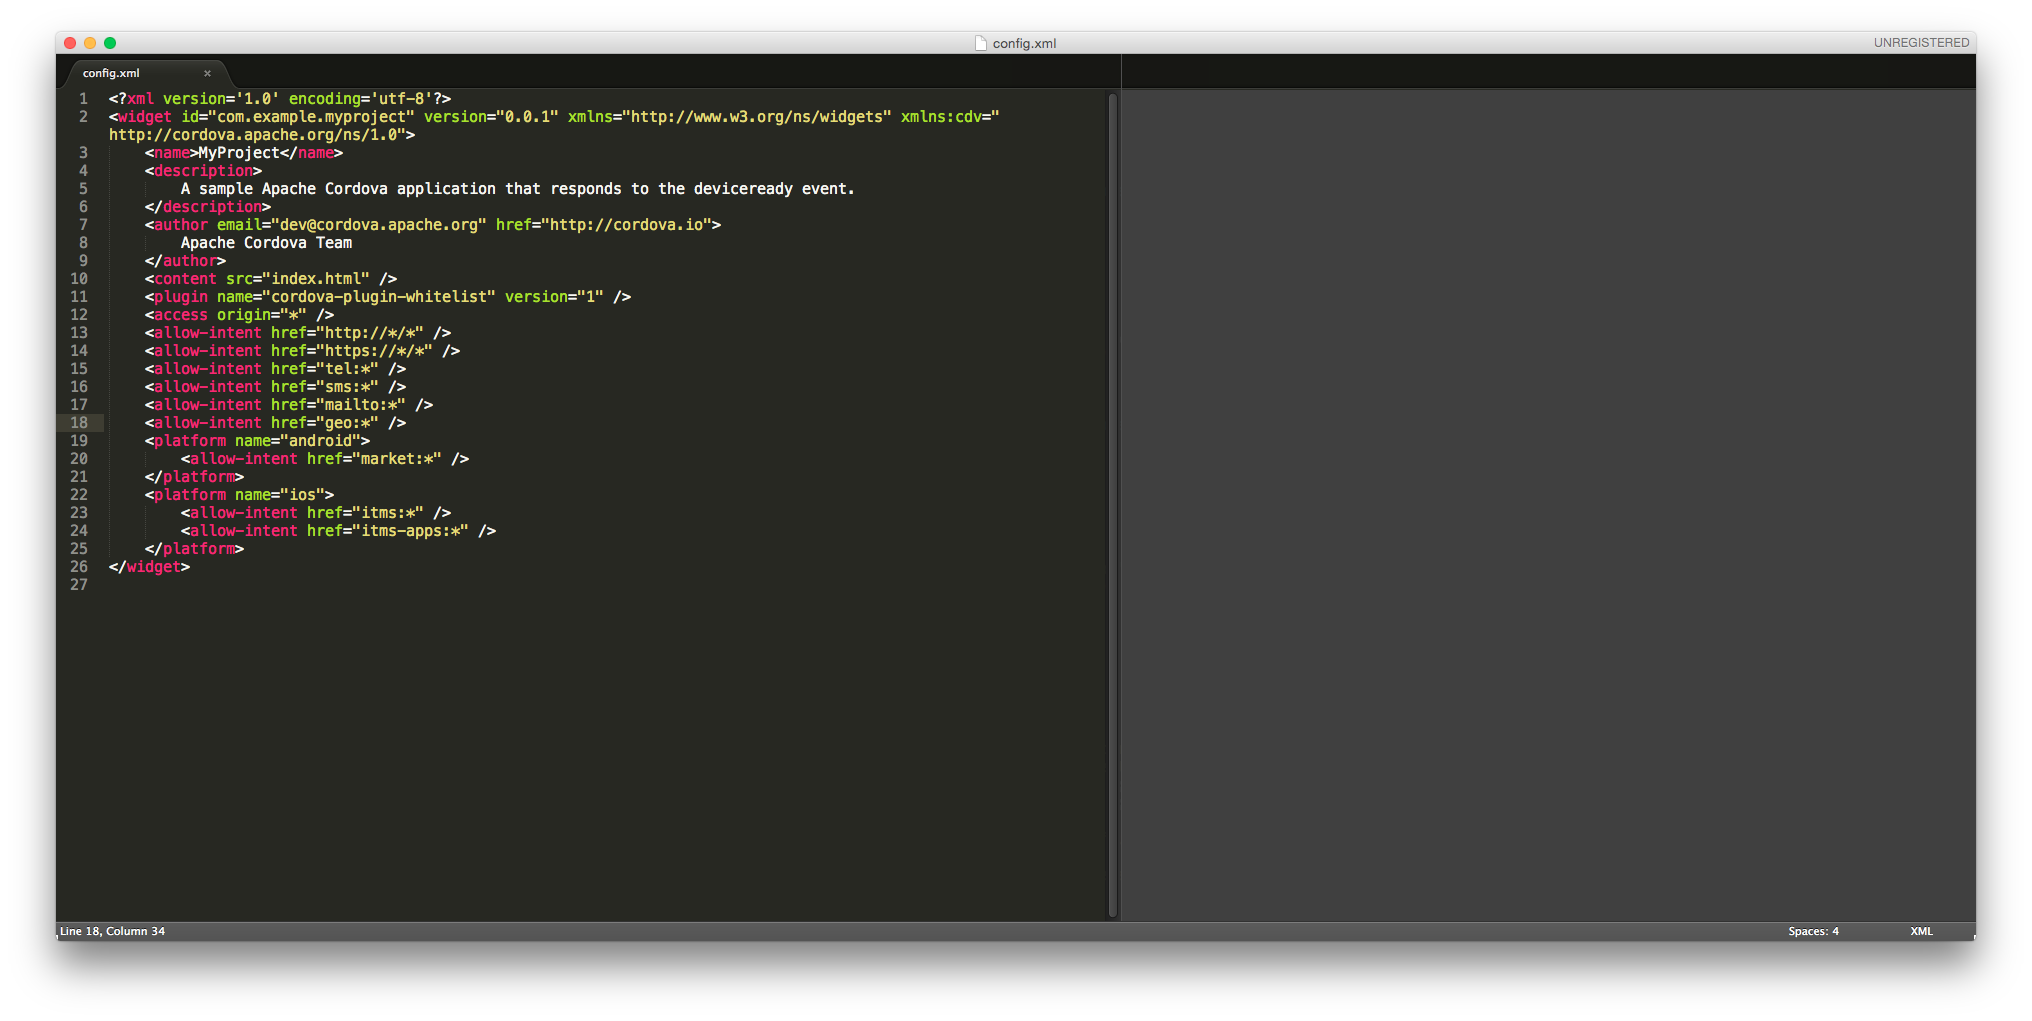
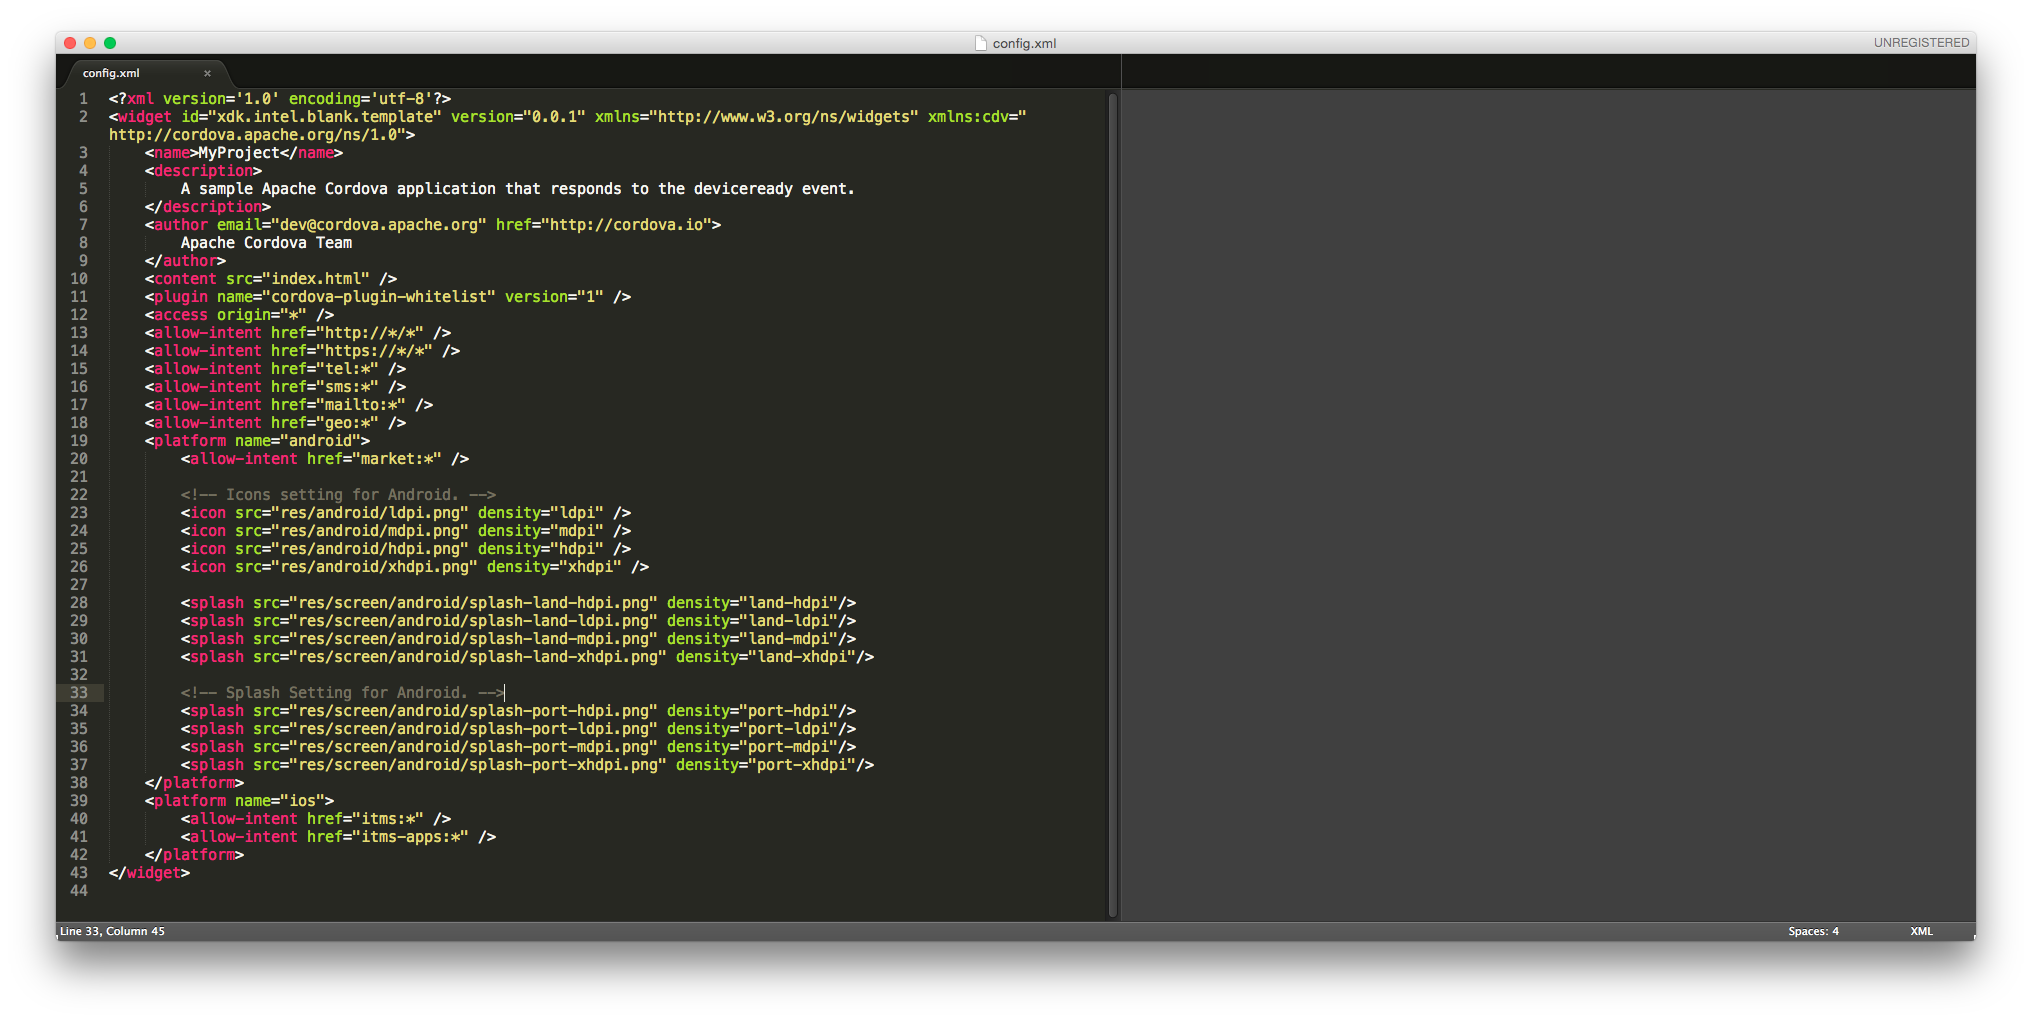
Update the exmample and pictures.

Changed region(s): [[0.031, 0.4554, 0.4341, 0.8805], [0.124, 0.0911, 0.4961, 0.1214]]

diff --git a/README.md b/README.md
@@ -1,12 +1,9 @@
 # 离线打包Intel® XDK项目
 
-***
-
-## 近期一些国内用户在使用XDK在线打包功能时遇到了一些困难，包括打包、下载安装包太慢，甚至打包失败。这是 <del>GFW</del> 一些不可抗力造成的，我们的建议是：使用代理服务，就可以解决这个问题。而对于不方便在开发环境中使用代理服务的用户，我们今天将介绍离线打包XDK工程的方法，让大家摆脱不稳定网络环境的困扰。
+*近期一些国内用户在使用XDK在线打包功能时遇到了一些困难，包括打包、下载安装包太慢，甚至打包失败。这是 <del>GFW</del> 一些不可抗力造成的，我们的建议是：使用代理服务，就可以解决这个问题。而对于不方便在开发环境中使用代理服务的用户，我们今天将介绍离线打包XDK工程的方法，让大家摆脱不稳定网络环境的困扰。*
 
 
-***
-## 离线打包具体步骤
+## 离线打包具体步骤:
 
 ### 在离线打包之前，你需要预先安装：
 1. [Node.js](https://nodejs.org/en/)；
@@ -20,7 +17,7 @@
 ### 步骤1. 创建一个空的Cordova工程
 我们将使用Cordova命令行来将XDK打包成各个平台的安装包（apk/ipa）。在这之前，我们需要先将XDK工程转换成一个Cordova工程。XDK工程的目录结构和一个典型的Cordova工程有显著区别，但是有一个很简单的办法将XDK工程转换成Cordova工程：
 
-*创建一个空的Cordova工程，然后将XDK工程的源代码、配置和插件迁移到Cordova工程中*
+*创建一个空的Cordova工程，然后将XDK工程的源代码、配置和插件迁移到Cordova工程中。*
 
 下面是具体操作。切换到工作目录，输入如下命令: 
 
@@ -64,18 +61,17 @@ plugman相关文档详见：http://cordova.apache.org/docs/en/5.1.1/plugin_ref/p
 1. Android应用：将platforms/android目录导入eclipse中，编译出apk。
 2. iOS应用：将platforms/ios目录下的.xcodeproj文件打开，在Xcode中编译出ipa。
 
-***
 
-## 离线打包XDK工程的实例
+## 一个离线打包XDK工程的实例
 下面的章节，我们将通过一个图文实例来介绍离线打包XDK的具体流程。
 
 ### 步骤0. 创建并调试好XDK工程
 1. 创建一个基于空白模板HTML5+Cordova的新工程:
-   <!-- ![](blank-template.png) -->
+   ![](blank-template.png)
 2. 在配置界面配置一些项目,例如添加/删除插件，添加icon/splashscreen，指定应用ID/名称/版本。
-   <!-- ![](config.png) -->
+   ![](config.png)
 3. 在模拟器重调试项目，确保应用界面布局和代码逻辑正确：
-   <!-- ![](emulate.png) -->
+   ![](emulate.png)
 4. 真机调试，确保XDK应用在真机设备上也能正常工作：
 
 ### 步骤1. 创建空的Cordova工程
@@ -84,6 +80,7 @@ plugman相关文档详见：http://cordova.apache.org/docs/en/5.1.1/plugin_ref/p
 	<code>$ cordova create myproject com.example.myproject MyProject</code>
 
 	"Creating a new cordova project"意味着创建Cordova工程成功。现在，工作目录下会出现一个"myproject"目录，目录结构如下：
+    ![](project-structure.png)
 
 2. 切换到myproject目录下，添加Android/iOS工程：
 
@@ -101,37 +98,40 @@ plugman相关文档详见：http://cordova.apache.org/docs/en/5.1.1/plugin_ref/p
 
 ### 步骤3. 应用配置的迁移
 1. 检查XDK工程配置界面里的打包设置：
-   <!-- ![](config.png) -->
+   ![](config.png)
 2. 将XDK工程配置手动写入到Cordova工程下的config.xml目录里。这里的配置包括两部分：
 
-   a. Icon/Splashscreen
+   * Icon/Splashscreen
    
    	  Android和iOS平台对icon和splash的尺寸和种类要求是不同的。你需要对照XDK的“应用图标和启动画面”菜单，对应的在config.xml文件中的platform元素下加上icon和splashscreen子元素来配置这些属性。具体可以参照[Icons and Splash Screens](http://cordova.apache.org/docs/en/5.4.0/config_ref/images.html) 文档。
    	  
-   	  pic here.
+   	  ![](icon-splash.png)
    	  
-   b. 打包配置
-      XDK的“打包配置”也需要被迁移到config.xml里。例如Android配置中的“应用ID“”为"xdk.intel.blank.template"，对应的就应该把config.xml中<widget>元素的id属性改为"xdk.intel.blank.template"; “应用版本“”为"0.0.1"，对应的把config.xml中<widget>元素的version属性改为"0.0.1"...打包配置对应的config.xml设置请参考 [The config.xml File](http://cordova.apache.org/docs/en/5.4.0/config_ref/index.html) 。
-      pic here.
+   * 打包配置
+   
+      XDK的“打包配置”也需要被迁移到config.xml里。例如Android配置中的“应用ID”为"xdk.intel.blank.template"，对应的就应该把config.xml中<widget>元素的id属性改为"xdk.intel.blank.template"; “应用版本”为"0.0.1"，对应的把config.xml中<widget>元素的version属性改为"0.0.1"。更多打包配置对应的config.xml设置请参考 [The config.xml File](http://cordova.apache.org/docs/en/5.4.0/config_ref/index.html) 。
+      
+	  ![](id-version.png)
 	
-3. 运行<code>$ cordova build</code>。
+3. 运行<code>$ cordova build</code>，把config.xml的修改应用到Android/iOS工程里。
 
 ### 步骤4. Cordova插件的迁移
-打开Cordova工程目录下的plugins文件夹，可以看到“org.apache.cordova.device”和“org.apache.cordova.splashscreen”这两个插件。使用plugman来安装这些插件：
+打开Cordova工程目录下的plugins文件夹，可以看到“org.apache.cordova.device”和“org.apache.cordova.splashscreen”这两个插件。使用plugman来安装这些插件到Cordova工程下：
 
-1. 安装Android平台的两个插件：
+* 安装Android平台插件：
 
-<code>$ plugman --platform android --project platforms/android --plugin <localpath-to-org.apache.cordova.device/></code>
+<code>$ plugman --platform android --project platforms/android --plugin <local-path-to-org.apache.cordova.device/></code>
 
-<code>$ plugman --platform android --project platforms/android --plugin <localpath-to-org.apache.cordova.splashscreen/></code>
+<code>$ plugman --platform android --project platforms/android --plugin <local-path-to-org.apache.cordova.splashscreen/></code>
 
-2. 安装iOS平台的两个插件：
+* 安装iOS平台插件：
 
-<code>$ plugman --platform iOS --project platforms/android --plugin <localpath-to-org.apache.cordova.device/></code>
+<code>$ plugman --platform ios --project platforms/android --plugin <local-path-to-org.apache.cordova.device/></code>
 
-<code>$ plugman --platform iOS --project platforms/android --plugin <localpath-to-org.apache.cordova.splashscreen/></code>
-
+<code>$ plugman --platform ios --project platforms/android --plugin <local-path-to-org.apache.cordova.splashscreen/></code>
 
 ### 步骤5. 编译安装包
 1. Android apk: 将myproject/platforms/android目录导入eclipse中，编译出apk。
-2. iOS apk: 双击myproject/platforms/ios目录下的.xcodeproject文件，在Xcode中编译出ipa。
+   ![](eclipse.png)
+2. iOS apk: 双击myproject/platforms/ios目录下的MyProject.xcodeproj文件，在Xcode中编译出ipa。
+   ![](xcodeproj.png)
